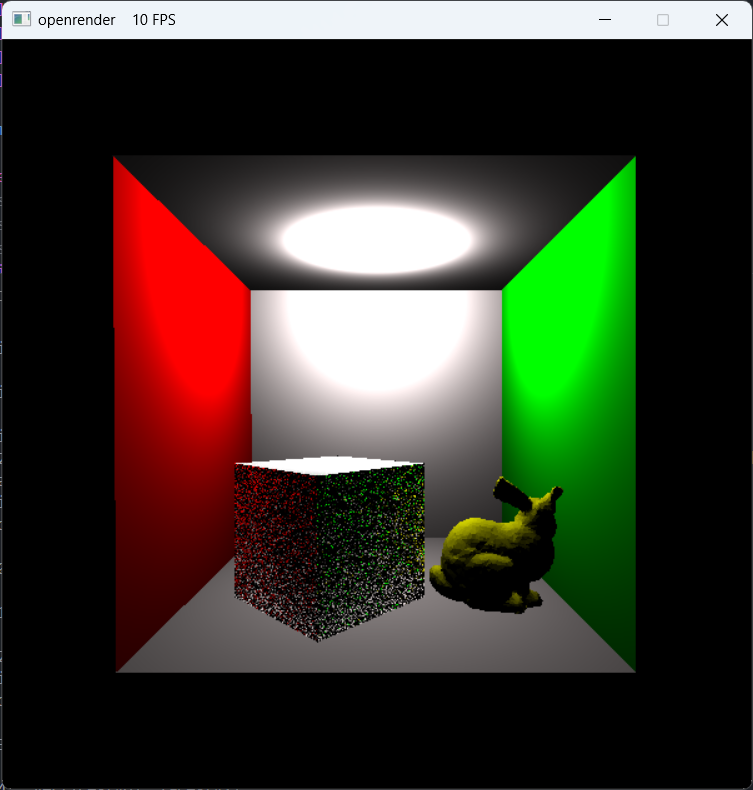
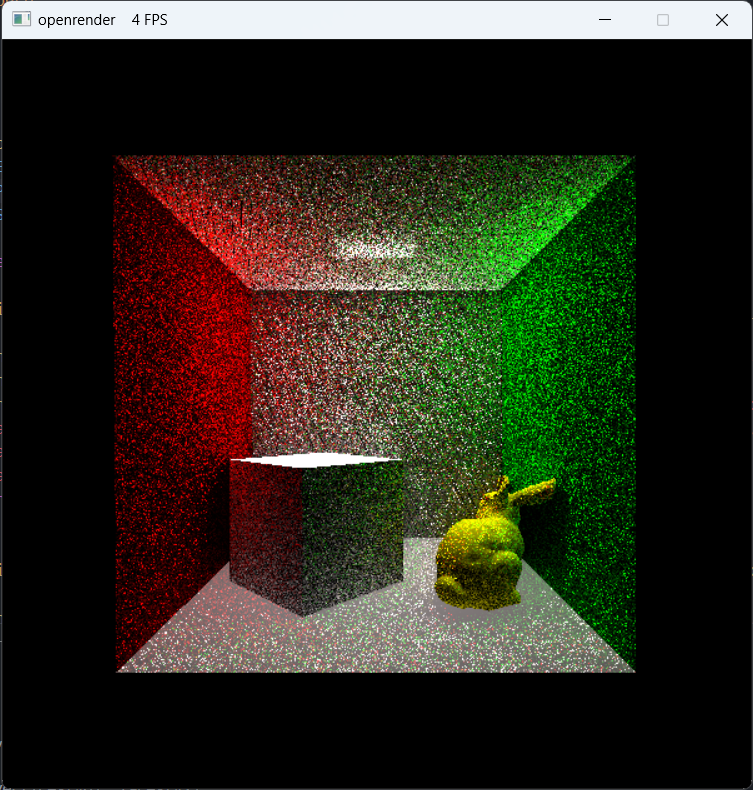
repair the bug of calculate_tangent() for no vt .obj

diff --git a/include/shader.hpp b/include/shader.hpp
@@ -7,7 +7,7 @@
 extern openrenderer::Uniform ubo;
 #define EPS 6e-4
 #define PCSS_NUM_SAMPLES 16
-#define SSR_NUM_SAMPLES 1
+#define SSR_NUM_SAMPLES 4
 
 namespace openrenderer{
 
@@ -552,7 +552,7 @@ inline Eigen::Vector3f gbuffer_FragmentShader(const Point& input)
     float alb_y = (*input.gbuffers->albedo_buffer)(input.screen_pos.y(), input.screen_pos.x(), ColorBit::G);
     float alb_z = (*input.gbuffers->albedo_buffer)(input.screen_pos.y(), input.screen_pos.x(), ColorBit::R);
     Eigen::Vector3f alb_color = { alb_x, alb_y, alb_z };
-    return depth_color;
+    return nor_color;
 }
 inline Eigen::Vector3f mipmap_FragmentShader(const Point& input)
 {
@@ -659,7 +659,11 @@ inline Eigen::Vector3f albedo_FragmentShader(const Point& input)
     Eigen::Vector3f n = input.attrs.normal.normalized();
     for(unsigned int i=0; i<ubo.lights.size(); i++)
     {
-        Eigen::Vector3f l = (ubo.lights[i].pos-input.attrs.modelPos).normalized();
+        Eigen::Vector3f l = Eigen::Vector3f::Zero();
+        if(ubo.lights[i].type==LightType::POINT)
+            l = (ubo.lights[i].pos-input.attrs.modelPos).normalized();
+        else if(ubo.lights[i].type==LightType::DIRECTION)
+            l = -ubo.lights[i].direction;
         Eigen::Vector3f v = (ubo.cameraPos-input.attrs.modelPos).normalized();
         Eigen::Vector3f h = (l+v).normalized();
         float cos_a = std::max(0.f, n.dot(h));
@@ -692,7 +696,11 @@ inline Eigen::Vector3f phong_FragmentShader(const Point& input)
     Eigen::Vector3f n = input.attrs.normal.normalized();
     for(unsigned int i=0; i<ubo.lights.size(); i++)
     {
-        Eigen::Vector3f l = (ubo.lights[i].pos-input.attrs.modelPos).normalized();
+        Eigen::Vector3f l;
+        if(ubo.lights[i].type==LightType::POINT)
+            l = (ubo.lights[i].pos-input.attrs.modelPos).normalized();
+        else if(ubo.lights[i].type==LightType::DIRECTION)
+            l = -ubo.lights[i].direction;
         Eigen::Vector3f v = (ubo.cameraPos-input.attrs.modelPos).normalized();
         Eigen::Vector3f h = (l+v).normalized();
         float r2_inverse = 1.f / std::pow((ubo.lights[i].pos-input.attrs.modelPos).norm(), 2.f);
@@ -762,7 +770,11 @@ inline Eigen::Vector3f ssr_FragmentShader(const Point& input)
     Eigen::Vector3f L_indir = {0.f, 0.f, 0.f};
     for(unsigned int k=0; k<ubo.lights.size(); k++)
     {
-        Eigen::Vector3f wi = (ubo.lights[k].pos-position).normalized();
+        Eigen::Vector3f wi;
+        if(ubo.lights[k].type==LightType::POINT)
+            wi = (ubo.lights[k].pos-position).normalized();
+        else if(ubo.lights[k].type==LightType::DIRECTION)
+            wi = -ubo.lights[k].direction;
         Eigen::Vector3f wo = (ubo.cameraPos-position).normalized();
         float r2_inverse = 1.f / std::pow((ubo.lights[k].pos-position).norm(), 2.f);
         // direct light

diff --git a/src/gui.cpp b/src/gui.cpp
@@ -265,16 +265,20 @@ ControlResult GuiControl::control(const SDL_Event& event)
                 {
                     if(m_isOBJ)
                     {
+                        float min_volume = std::numeric_limits<float>::max(); 
                         m_mouseWorldPos = inverse2Dto3D(mousePosX, m_render->height()-mousePosY, 0.95f, m_render->width(), m_render->height(), Eigen::Matrix4f::Identity(), ubo.view, ubo.projection);
                         for(unsigned int i=0; i<m_loader->objects.size(); i++)
                             if(m_loader->objects[i].bounding_box.intersectP(ubo.cameraPos, (m_mouseWorldPos-ubo.cameraPos).normalized()))
                             {
-                                m_id = i;
-                                m_isRotate = true;                            
-                                m_oldPos = inverse2Dto3D(mousePosX, m_render->height()-mousePosY, 0.7f, m_render->width(), m_render->height(), Eigen::Matrix4f::Identity(), ubo.view, ubo.projection);
-                                std::cout << "[Mouse Button Down]: choose the obj to rotate." << std::endl;
-                                break;
+                                if(m_loader->objects[i].bounding_box.volume()<min_volume)
+                                {
+                                    m_id = i;
+                                    m_isRotate = true;                            
+                                    m_oldPos = inverse2Dto3D(mousePosX, m_render->height()-mousePosY, 0.7f, m_render->width(), m_render->height(), Eigen::Matrix4f::Identity(), ubo.view, ubo.projection);
+                                    min_volume = m_loader->objects[i].bounding_box.volume();
+                                }
                             }
+                        std::cout << "[Mouse Button Down]: choose the obj to rotate." << std::endl;
                     }
                     else
                     {

diff --git a/main.cpp b/main.cpp
@@ -20,8 +20,8 @@
 #include "config.hpp"
 // #include "tbb/tbb.h"
 
-const int w = 600;
-const int h = 600;
+// const int w = 600;
+// const int h = 600;
 openrenderer::Uniform ubo;
 
 #undef main     // remove the SDL defination for SDL_main: #define main SDL_main
@@ -47,19 +47,19 @@ int main(int argc, char* argv[])
     bool is_display = true;
 
     /*0. parse config-file*/
-    Config config("C:/vscode_files/openrenderer/marry_scene.json");
+    Config config("C:/vscode_files/openrenderer/cornellbox_scene.json");
     /*1. load the .obj*/
     openrenderer::Loader loader;
     loader.load_obj(config.obj_paths, config.obj_vertexShaders, config.obj_fragmentShaders, config.obj_colorTextures, config.obj_colors, config.obj_normalTextures, config.obj_modelMatrixs);
     /*2.init scene*/
     ubo.init(config.width, config.height, config.obj_modelMatrixs, config.cameraPos, float(config.width)/float(config.height), config.lookAt, config.upDir, config.fovy/180.f*float(MY_PI), config.zNear, config.zFar, {0.f, -1.f, 1.f}, config.lights);
-    loader.objects[0].light = &ubo.lights[0];
+    // loader.objects[0].light = &ubo.lights[0];
     sampleFromHalfSphere(ubo.sampleFromHalfSphere, 10);
     /*3. init SDL*/
-    Gui::init(w, h, "openrenderer", SDL_FLIP_VERTICAL);
+    Gui::init(config.width, config.height, "openrenderer", SDL_FLIP_VERTICAL);
     Gui::self().create_texture(SDL_PIXELFORMAT_BGR24);
     /*4. init renderer*/
-    Render render(w, h, true, true, config.enableDefferedRender, PixelFormat::RGB888, PixelFormat::ARGB8888, PixelFormat::ARGB8888);
+    Render render(config.width, config.height, true, true, config.enableDefferedRender, PixelFormat::RGB888, PixelFormat::ARGB8888, PixelFormat::ARGB8888);
     render.init_pipeline(PrimitiveType::TRIANGLE, ShadeFrequency::GOURAUD, point_VertexShader, texture_FragmentShader);
     
     //main loop

diff --git a/src/config.cpp b/src/config.cpp
@@ -86,14 +86,18 @@ Config::Config(const char* file)
 		//2.parse the light config
         for(unsigned int i=0; i<root["lights"].size(); i++)
         {
+            LightType type = LightType(root["lights"][i]["type"].asInt());
             Eigen::Vector3f position = {10.f, 10.f, 10.f};
             for(unsigned int j=0; j<root["lights"][i]["position"].size(); j++)
                 position[j] = root["lights"][i]["position"][j].asFloat();
             Eigen::Vector3f intensity = {100.f, 100.f, 100.f};
             for(unsigned int j=0; j<root["lights"][i]["intensity"].size(); j++)
                 intensity[j] = root["lights"][i]["intensity"][j].asFloat();
+            Eigen::Vector3f direction = {0.f, 0.f, 0.f};
+            for(unsigned int j=0; j<root["lights"][i]["direction"].size(); j++)
+                direction[j] = root["lights"][i]["direction"][j].asFloat();
             bool enable_shadowmap = root["lights"][i]["enable_shadowmap"].asBool();
-            Light light = { position, intensity, enable_shadowmap, Eigen::Matrix4f::Identity(), nullptr };
+            Light light = { type, position, intensity, direction.normalized(), enable_shadowmap, Eigen::Matrix4f::Identity(), nullptr };
             lights.push_back(light);
         }
         //3.parse the scene config

diff --git a/src/pipeline.cpp b/src/pipeline.cpp
@@ -528,6 +528,12 @@ int thread_schedule(int thread_id, int i, int total_threads)
 
 Eigen::Vector3f calculate_tangent(const Vertex points[3])
 {
+    if(points[0].texCoord==Eigen::Vector2f::Zero()&&points[1].texCoord==Eigen::Vector2f::Zero()&&points[2].texCoord==Eigen::Vector2f::Zero())
+    {
+        std::uniform_real_distribution<float> randomFloats(0.f, 1.f);
+        std::default_random_engine generator;
+        return Eigen::Vector3f{randomFloats(generator)*2.0f-1.0f, randomFloats(generator)*2.0f-1.0f, 0.f}.normalized();
+    }
     Eigen::Vector3f tangent;
     Eigen::Vector3f edge1 = points[1].pos - points[0].pos;
     Eigen::Vector3f edge2 = points[2].pos - points[0].pos;

diff --git a/include/geometry.hpp b/include/geometry.hpp
@@ -47,9 +47,12 @@ Eigen::Vector3f inverse2Dto3D(int x, int y, float z, int w, int h, const Eigen::
 
 void RT_decompose(const Eigen::Matrix4f& RT, Eigen::Matrix4f& R, Eigen::Matrix4f& T);
 
+enum class LightType{ POINT, DIRECTION, SURFACE };
 struct Light{
+    LightType type;
     Eigen::Vector3f pos;
     Eigen::Vector3f intensity;
+    Eigen::Vector3f direction;
     bool hasShadowMap;
     Eigen::Matrix4f lightVP;
     Buffer<uint8_t>* shadowMap;

diff --git a/problems.md b/problems.md
@@ -1,7 +1,7 @@
 ## Problems
 
-- gui控制：鼠标选中物体移动以及对应bounding-box正确变化
-- 光照：当前仅有点光源，无面光源或平行光
+- gui控制：鼠标选中物体移动以及对应bounding-box正确变化（√）
+- 光照：当前仅有点光源，无面光源或平行光 （√）
 - 阴影：marry场景手部阴影偏虚，cornell场景正方体出现阴影条纹
 - 光源：cornell场景无法正确设置顶部光源（面光源/平行光）
 - SSR问题：当采样点足够多（>1024）时正方体接近纯黑，推测是半球采样出现问题

diff --git a/README.md b/README.md
@@ -32,7 +32,9 @@ cmake --build . -j
 
 ### 效果
 
+1. Marry场景（点光源+Phong+PCSS+SSAO+SSDO）
 ![marry_back](./results/0.png)
 ![marry_whole](./results//1.png)
+2. CornellBox场景（平行光+SSR）
 ![cornellbox_SSR](./results/2.png)
 ![cornellbox_SSR1](./results/3.png)
